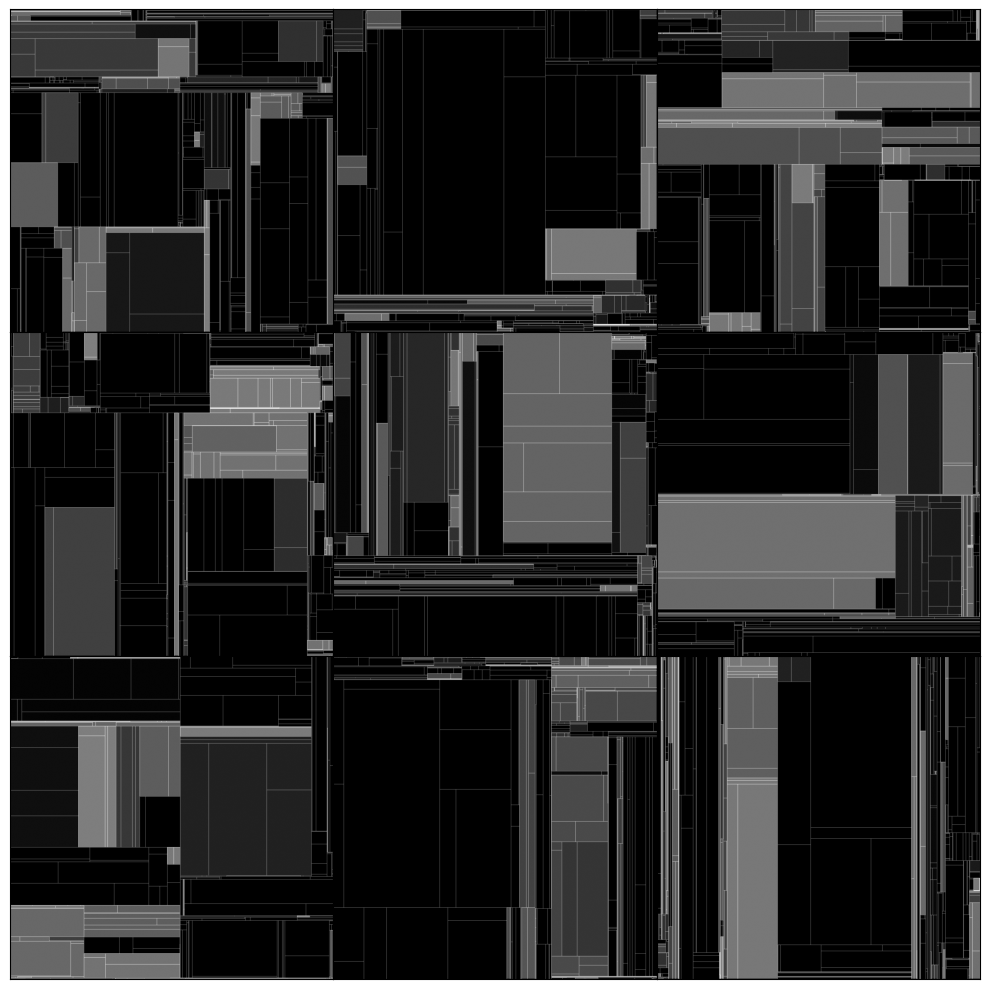
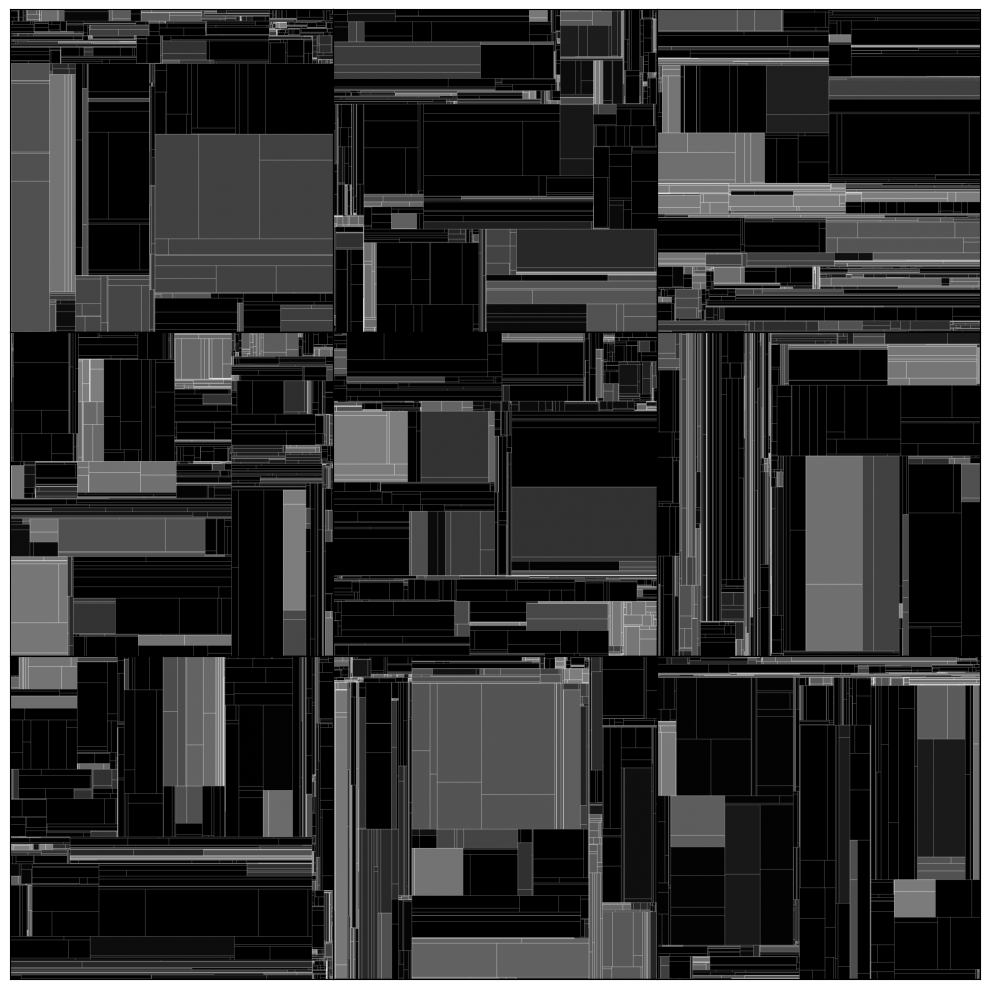
Code cleanup and seed searching

diff --git a/src/day12.py b/src/day12.py
@@ -1,12 +1,22 @@
 """Subdivision"""
 
 from skimage.draw import line, rectangle
+from dataclasses import dataclass
 import matplotlib.pylab as plt
 from collections import deque
 import numpy as np
 
 SIZE = 1000
-SUBDIV_LEVEL = 8
+SUBDIV_LEVEL = 9
+
+
+@dataclass
+class Rect:
+    x: int
+    y: int
+    width: int
+    height: int
+    level: int
 
 
 def create_pattern(rng_obj):
@@ -15,59 +25,53 @@ def create_pattern(rng_obj):
 
     background = np.zeros(shape=(SIZE, SIZE))
     foreground = np.zeros(shape=(SIZE, SIZE))
-    rects = deque([(((0, 0), SIZE - 1, SIZE - 1), 0)])
+    rects = deque([Rect(0, 0, SIZE - 1, SIZE - 1, 0)])
     while rects:
-        this_rect, this_level = rects.popleft()
-        ((this_y, this_x), this_height, this_width) = this_rect
-        if this_level > SUBDIV_LEVEL:
+        rect = rects.popleft()
+        if rect.level > SUBDIV_LEVEL:
             continue
         # Randomly fill some
-        if this_level > 3 and rng.random() > 0.9:
-            yy, xx = rectangle((this_y, this_x), extent=(this_height, this_width))
+        if rect.level > 3 and rng.random() > 0.9:
+            yy, xx = rectangle((rect.y, rect.x), extent=(rect.height, rect.width))
             background[yy, xx] = rng.random()
-
         # Split at a random point in a random orientation
         split_frac = rng.random()
         if rng.random() > 0.5:  # Vertical
-            mid_x = lerp(this_x, this_x + this_width, split_frac)
-            # Draw line
-            yy, xx = line(this_y, mid_x, this_y + this_height, mid_x)
-            foreground[yy, xx] = 1.0
+            mid_x = lerp(rect.x, rect.x + rect.width, split_frac)
+            # Line data
+            yy, xx = line(rect.y, mid_x, rect.y + rect.height, mid_x)
             # Append new rects
-            first_width = int(this_width * split_frac)
-            rects.append((((this_y, this_x), this_height, first_width), this_level + 1))
-            rects.append(
-                (
-                    (
-                        (this_y, this_x + first_width),
-                        this_height,
-                        this_width - first_width,
-                    ),
-                    this_level + 1,
-                )
+            first_width = int(rect.width * split_frac)
+            r1 = Rect(rect.x, rect.y, first_width, rect.height, rect.level + 1)
+            r2 = Rect(
+                rect.x + first_width,
+                rect.y,
+                rect.width - first_width,
+                rect.height,
+                rect.level + 1,
             )
         else:  # Horizontal
-            mid_y = lerp(this_y, this_y + this_height, split_frac)
-            # Draw line
-            yy, xx = line(mid_y, this_x, mid_y, this_x + this_width)
-            foreground[yy, xx] = 1.0
+            mid_y = lerp(rect.y, rect.y + rect.height, split_frac)
+            # Line data
+            yy, xx = line(mid_y, rect.x, mid_y, rect.x + rect.width)
             # Append new rects
-            first_height = int(this_height * split_frac)
-            rects.append((((this_y, this_x), first_height, this_width), this_level + 1))
-            rects.append(
-                (
-                    (
-                        (this_y + first_height, this_x),
-                        this_height - first_height,
-                        this_width,
-                    ),
-                    this_level + 1,
-                )
+            first_height = int(rect.height * split_frac)
+            r1 = Rect(rect.x, rect.y, rect.width, first_height, rect.level + 1)
+            r2 = Rect(
+                rect.x,
+                rect.y + first_height,
+                rect.width,
+                rect.height - first_height,
+                rect.level + 1,
             )
+        foreground[yy, xx] = 1.0
+        rects.append(r1)
+        rects.append(r2)
+
     return background + foreground
 
 
-rng = np.random.default_rng(2)
+rng = np.random.default_rng(3)
 fig, axs = plt.subplots(3, 3, figsize=(10, 10), squeeze=False)
 for ax in axs.flatten():
     ax.imshow(create_pattern(rng), cmap="gray")
